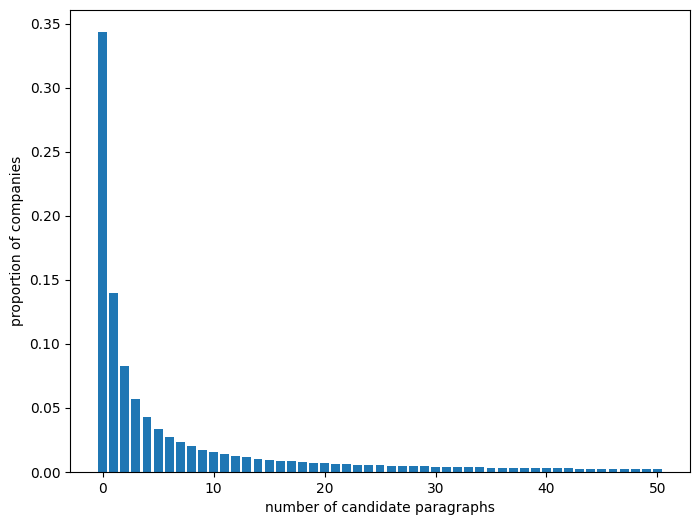
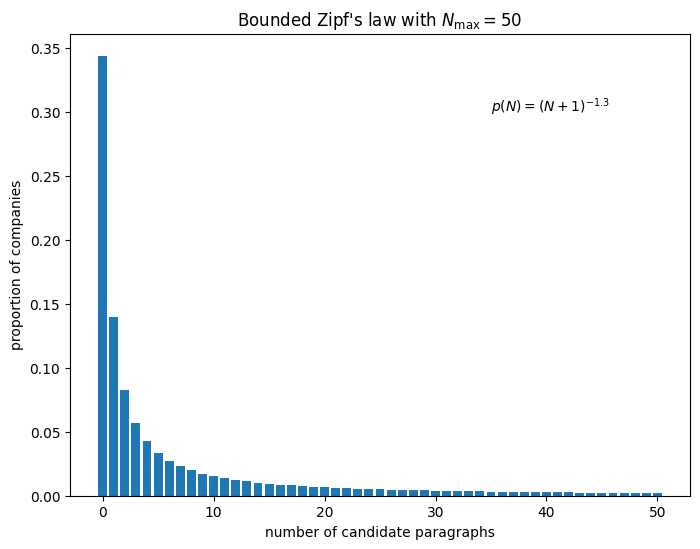
Fix simulation, complete company tagging post

diff --git a/code/company-tagging.py b/code/company-tagging.py
@@ -8,6 +8,8 @@ import matplotlib.pyplot as plt
 IMGDIR = Path("../images/company-tagging")
 
 
+# Truncated power law distribution
+
 def bounded_zipf_rv(a=1.3, loc=-1, Nmax=50):
     x = np.arange(0, Nmax + 1)
     weights = (x - loc) ** (-a)
@@ -23,11 +25,77 @@ def bounded_zipf_pmf():
 
     N = np.arange(0, Nmax + 1)
     plt.bar(N, zipf.pmf(N))
+    plt.text(35, 0.30, r'$p(N) = (N + 1)^{-1.3}$')
+
     plt.xlabel("number of candidate paragraphs")
     plt.ylabel("proportion of companies")
+    plt.title("Bounded Zipf's law with $N_\mathrm{max} = 50$")
     plt.savefig(IMGDIR / 'zipf.png', bbox_inches='tight')
+
+
+# Bias due to model errors vs precision-recall gap
+
+def EY0(Nmax, prevalence, bounded_zipf=bounded_zipf_rv()):
+    N = np.arange(Nmax + 1)
+    return 1 - np.sum(bounded_zipf.pmf(N) * stats.binom.pmf(0, N, prevalence))
+
+def EYpred(Nmax, cm, bounded_zipf=bounded_zipf_rv()):
+    tp, fp, fn, tn = cm
+    P00 = tn/(tn+fp)
+    P01 = fn/(tp+fn)
+    prevalence = (tp + fn) / (tp + fp + fn + tn)
+
+    PKh0 = 1
+    for N in np.arange(Nmax + 1):
+        K = np.arange(N + 1)
+        PKh0 -= np.sum(stats.binom.pmf(K, N, prevalence) * P01**K * P00**(N-K)) * bounded_zipf.pmf(N)
+    return PKh0
+
+def napr_to_cm(n, prevalence, precision, recall):
+    a, p, r = prevalence, precision, recall
+    tp = a * r * n
+    fp = a * r * (1-p) * n / p
+    fn = a * (1-r) * n
+    tn = n - tp - fp - fn
+    if tn < 0:
+        raise ValueError("Invalid confusion matrix.")
+    return (tp, fp, fn, tn)
+
+def bias_vs_prec_recall_diff():
+    fig = plt.figure(figsize=(8, 6), dpi=100)
+    fig.set_facecolor('white')
+
+    plt.axhline(0, linestyle='--', alpha=0.4, color='k')
+    plt.axvline(0, linestyle='--', alpha=0.4, color='k')
+
+    Nmax = 50
+    p0 = 0.85                   # average of precision and recall
+    n = 100
+    deltas = np.linspace(-0.15, 0.15, 15)
+
+    for prevalence in np.linspace(0.1, 0.6, 6):
+        EY = []
+        EYp = []
+        for delta in deltas:
+            precision = p0 + delta
+            recall = p0 - delta
+            cm = napr_to_cm(n, prevalence, precision, recall)
+            EY.append(EY0(Nmax, prevalence))
+            EYp.append(EYpred(Nmax, cm))
+
+        plt.plot(2 * deltas, np.asarray(EYp) - np.asarray(EY),
+                 label=round(prevalence, 1),
+                 color=plt.cm.viridis(prevalence))
+
+    plt.legend()
+    plt.text(-0.28, -0.05, f"(precision + recall) / 2 = {p0}")
+    plt.xlabel("precision - recall")
+    plt.ylabel(r"bias = $\mathbb{E}(\hat{Y}) - \mathbb{E}(Y)$")
+    plt.title("Bias vs. precision-recall difference, for prevalences from 0.1 to 0.6")
+    plt.savefig(IMGDIR / 'bias.png', bbox_inches='tight')
 
 
 if __name__ == '__main__':
     Path.mkdir(IMGDIR, exist_ok=True)
     bounded_zipf_pmf()
+    bias_vs_prec_recall_diff()

diff --git a/_posts/2023-01-16-company-tagging.md b/_posts/2023-01-16-company-tagging.md
@@ -124,38 +124,122 @@ is the formula we will implement.
 ## Example
 
 For a synthetic example, let's say the distribution of the number of candidate
-paragraphs $$N$$ follows a power-law, truncated to a max of 50 paragraphs.
+paragraphs $$N$$ follows a power-law, truncated to a max of 50 paragraphs
+because this roughly matches distributiones I've seen and the tail of the power
+law is too long for our purposes. Over a third of companies do not have any
+candidate paragraphs, while the remainder have one or more.
 
 ![](/images/company-tagging/zipf.png)
 
-For each $$N$$, the number of paragraphs tagged as positive $$K$$ is uniform
-random with probability $$0.5$$. We will also need the confusion matrix, from
-which we compute the conditional probabilities:
+For each $$N$$, the number of paragraphs tagged as positive $$K$$ is a binomial
+random variable with some probability $$p$$. To generate the synthetic dataset,
+we also need the confusion matrix which captures the ML model performance.
+Here's an example for the case of a model evaluated on 250 data points:
 
-$$ P(X = 0 \vert \hat{X} = 1) = \frac{\text{FP}}{\text{TP} + \text{FP}} $$
+|                 | $$X = 1$$ | $$X = 0$$ |
+| --------------- | --------- | --------- |
+| $$\hat{X} = 1$$ | TP = 135  | FP = 15   |
+| $$\hat{X} = 0$$ | FN = 30   | TN = 70   |
 
-$$ P(X = 0 \vert \hat{X} = 0) = \frac{\text{TN}}{\text{TN} + \text{FN}} $$
+This is a decent model for our purposes, in that the precision is 0.9 and the
+recall is 0.82, giving $$F_1 = 0.86$$. From this, we can compute the
+conditional propobabilities used in our equation:
 
-For example, if we evaluate the model on a set of 250 data points and find that
-$$\text{TP} = 135$$, $$\text{FP} = 15$$, $$\text{FN} = 20$$, and $$\text{TN} =
-80$$, the probabilities are
+$$ P(X = 0 \vert \hat{X} = 1) = \frac{\text{FP}}{\text{TP} + \text{FP}} = 0.1$$
 
-$$ P(X = 0 \vert \hat{X} = 1) = 0.1 $$
+$$ P(X = 0 \vert \hat{X} = 0) = \frac{\text{TN}}{\text{TN} + \text{FN}} = 0.7$$
 
-$$ P(X = 0 \vert \hat{X} = 0) = 0.8 $$
+Additionally, the ground truth probability $$p$$ that any one paragraph is
+relevant (the prevalence) must be consistent with the confusion matrix:
 
-This is a decent model, in that the precision is 0.9 and the recall is 0.87,
-giving $$F_1 = 0.89$$.
+$$ p = \frac{\mathrm{TP} + \mathrm{FN}}{\mathrm{TP} + \mathrm{FP} + \mathrm{FN} + \mathrm{TN}} = 0.66$$
 
 With these numbers, we can generate a synthetic dataset for a universe of $$M =
-1000$$ companies. First, we'll implement Zipf's law, but truncated to a max of
-$$N_\text{max} = 50$$ paragraphs since the tail is too long for our purposes:
+1000$$ companies. For the true label $$X$$ of each paragraph, we introduce
+errors by flipping it with the following probabilities:
+
+$$ P(\hat{X} = 0 \vert X = 1) = \frac{\mathrm{FN}}{\mathrm{TP} + \mathrm{FN}} $$
+
+$$ P(\hat{X} = 1 \vert X = 0) = \frac{\mathrm{FP}}{\mathrm{TN} + \mathrm{FP}} $$
+
+The resulting dataset is a set of 1000 rows, one for each company, specifying
+the number of candidate paragraphs $$N$$ for that company, how many $$K$$ are
+relevant, and how many $$K_\mathrm{pred}$$ the model marked as relevant:
+
+| $$N$$ | $$K$$ | $$K_\mathrm{pred}$$ |
+| ----- | ----- | ------------------- |
+| 2     | 2     | 1                   |
+| 6     | 5     | 4                   |
+| 0     | 0     | 0                   |
+| 2     | 1     | 1                   |
+| 20    | 12    | 14                  |
+| ...   | ...   | ...                 |
+
+Now we can compute the fraction of companies which discuss a given topic, and
+apply our correction formula and check that the result is closer to the ground
+truth:
+
+$$
+\begin{align}
+  \mathrm{ground\,truth}&: \mathbb{E}(Y) = 608 / 1000 = 0.608 \\
+  \mathrm{predicted}&: \mathbb{E}(\hat{Y}) = 592 / 1000 = 0.592 \\
+  \mathrm{corrected}&: \mathbb{E}(Y) = 606 / 1000 = 0.606
+\end{align}
+$$
+
+The corrected value is closer to the ground truth than the predicted value!
+
+## Discussion
+
+I was surprised by the small magnitude of bias generated by model errors. In
+the above example, the bias was around 1.5%, which is a minor effect given my
+experience with systematic errors from other parts of the data generation and
+modeling pipeline. Playing around with the values in the confusion matrix, it
+appears that:
+
+1. The bias increases as the difference between the precision and recall grows
+
+2. The bias does not depend strongly on the prevalence of positives
+
+There is a negative correlation when the bias is plotted against the difference
+between the precision and recall.
+
+![](/images/company-tagging/bias.png)
+
+This makes sense: when the precision is higher than the recall, the model is
+missing more paragraphs than it is catching, leading to an under-report of the
+fraction of companies discussing a given topic, meaning the bias is negative.
+As the prevalence is swept from 0.1 to 0.6, the bias hardly changes. Finally,
+changing the overall performance of the model (in the above plot, we
+symmetrically varied the precision and recall about 0.85) does not strongly
+affect the bias either.
+
+Finally, a note on correlations: this derivation is predicated on the fact that
+the labels for the paragraphs are independent Bernoulli variables. However,
+it's possible that this is not true: for a given company, if one candidate
+paragraph discusses a given topic, say carbon emissions, it may be more likely
+that other candidates paragraphs for the same company will also discuss carbon
+emissions. These are correlated Bernoulli variables, and there is work on
+generating and fitting data to such models
+[[1](https://projecteuclid.org/journals/bayesian-analysis/volume-11/issue-2/Sums-of-Possibly-Associated-Bernoulli-Variables--The-ConwayMaxwell-Binomial/10.1214/15-BA955.full)]
+[[2](https://arxiv.org/abs/2212.03743)]. I have yet to explore the direction
+and magnitude of the effect of correlations.
+
+To summarize, in the uncorrelated case, we can correct for bias when
+aggregating per-paragraph tags to a company level, but this bias is only
+significant when the classifier is skewed towards either precision or recall.
+
+
+## Appendix: simulation code
 
 ```python
 import numpy as np
 from scipy import stats
 
-# bounded power law distribution
+# for reproducibility
+np.random.seed(3)
+
+# construct bounded power law distribution
 Nmax = 50
 loc = -1
 a = 1.3
@@ -164,39 +248,24 @@ x = np.arange(0, Nmax+1)
 weights = (x - loc) ** (-a)
 weights /= weights.sum()
 bounded_zipf = stats.rv_discrete(name='bounded_zipf', values=(x, weights))
-```
-
-TKTKTK
-
-## Notes
-
-Here's an implementation of a simplified simulation where each company has
-exactly 1 paragraph. I'm clearly making a mistake somewhere because the
-corrected expectation rate isn't equal to the original ground truth rate. In
-fact, the correction causes the expected rate to drift even further away from
-the ground truth value.
-
-```python
-import numpy as np
-from scipy import stats
 
 # number of companies
-M = 1000000
+M = 1000
 
 # number of paragraphs per company
-N = np.ones(M, dtype='int64')  # for now, all companies have 1 paragraph
+N = bounded_zipf.rvs(size=M)
+
+# quality of classifier (confusion matrix)
+tp, fp, fn, tn = 135, 15, 30, 70
 
 # number of relevant (positive) paragraphs per company
-K = stats.binom.rvs(N, 0.5)
+prevalence = (tp + fn) / (tp + fp + fn + tn)
+print(f"prevalence (paragraph level) = {prevalence}")
+K = stats.binom.rvs(N, prevalence)
 
 # ground truth fraction of companies which discuss topic
 EY = np.sum(K > 0)
 print(f"{EY} / {M} = {EY / M:.2f} companies discuss the topic")
-
-# quality of classifier (confusion matrix)
-tp, fp, fn, tn = 135, 15, 20, 80
-# tp, fp, fn, tn = 135, 15, 0, 100
-# tp, fp, fn, tn = 4, 1, 1, 4
 
 p01 = fp / (tp + fp)
 p00 = tn / (fn + tn)
@@ -215,21 +284,23 @@ print("    K =", K[:10])
 print("Kpred =", Kpred[:10])
 
 # ground truth and jittered expectations
-print(f"E(Y)  = {np.sum(K > 0)} / {M} = {np.sum(K > 0) / M}")
-print(f"E(Y*) = {np.sum(Kpred > 0)} / {M} = {np.sum(Kpred > 0) / M}")
+print(f"E(Y) ground truth = {np.sum(K > 0)} / {M} = {np.sum(K > 0) / M:.6f}")
+print(f"E(Y*) predicted   = {np.sum(Kpred > 0)} / {M} = {np.sum(Kpred > 0) / M:.6f}")
 
 # corrected expectation value (should equal ground truth)
 EYp = M - np.sum(p01**Kpred * p00**(N-Kpred))
-print(f"E(Y)  = {EYp:.0f} / {M} = {EYp / M}")
+print(f"E(Y) corrected    = {EYp:.0f} / {M} = {EYp / M:.6f}")
 
-# output
-# 499083 / 1000000 = 0.50 companies discuss the topic
-# P(true = 0 | pred = 1) = 0.1, P(true = 0 | pred = 0) = 0.8
-# precision = 0.90, recall = 0.87, F1 = 0.89
-#     N = [1 1 1 1 1 1 1 1 1 1]
-#     K = [1 1 1 1 1 0 1 0 0 1]
-# Kpred = [1 0 1 1 0 1 0 0 0 1]
-# E(Y)  = 499083 / 1000000 = 0.499083
-# E(Y*) = 514037 / 1000000 = 0.514037
-# E(Y)  = 559826 / 1000000 = 0.5598259
+# Example output:
+#
+# prevalence (paragraph level) = 0.66
+# 608 / 1000 = 0.61 companies discuss the topic
+# P(true = 0 | pred = 1) = 0.1, P(true = 0 | pred = 0) = 0.7
+# precision = 0.90, recall = 0.82, F1 = 0.86
+#     N = [ 2  6  0  2 20 21  0  0  0  1]
+#     K = [ 2  5  0  1 12 12  0  0  0  1]
+# Kpred = [ 1  4  0  1 14  9  0  0  0  1]
+# E(Y) ground truth = 608 / 1000 = 0.608000
+# E(Y*) predicted   = 592 / 1000 = 0.592000
+# E(Y) corrected    = 606 / 1000 = 0.606341
 ```
